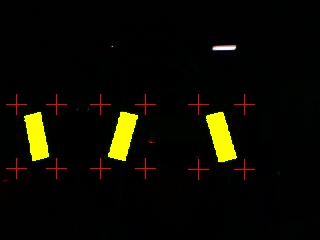
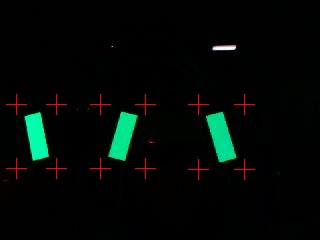
reeEEE inner classes

Changed region(s): [[0.625, 0.4667, 0.75, 0.7], [0.0625, 0.4667, 0.1562, 0.6708], [0.3438, 0.4667, 0.4375, 0.6708]]

diff --git a/src/main/java/org/team5940/pantry/vision/Main.java b/src/main/java/org/team5940/pantry/vision/Main.java
@@ -1,12 +1,15 @@
 package org.team5940.pantry.vision;
 
+import java.util.ArrayList;
 import java.util.Random;
 
 import org.opencv.core.CvType;
 import org.opencv.core.Mat;
 import org.opencv.core.MatOfPoint;
 import org.opencv.core.Point;
+import org.opencv.core.Rect;
 import org.opencv.core.Scalar;
+import org.opencv.core.Size;
 import org.opencv.imgcodecs.Imgcodecs;
 import org.opencv.imgproc.Imgproc;
 
@@ -33,39 +36,50 @@ public class Main {
         img.convertTo(image32S, CvType.CV_32SC1);
         var yes = img;
 
-        for (int i = 0; i < contours.size(); i++) {
-            Imgproc.drawContours(yes, contours, i, new Scalar(0, 255, 255), -1);
-        }
+        // for (int i = 0; i < contours.size(); i++) {
+        //     Imgproc.drawContours(yes, contours, i, new Scalar(0, 255, 255), -1);
+        // }
 
         // print(yes.rows());
 
+        ArrayList<DetectedContour> contourList = new ArrayList<>();
+
         // Random  = new Random();
-        for (MatOfPoint point : contours) {
+        for (MatOfPoint contour : contours) {
             print("finding bouding rectangle...");
 
             var buffer = new BetterPoint(0.03 * (double) yes.rows(), 0.03 * (double) yes.rows());
 
             print(buffer);
 
-            var boundingRect = Imgproc.boundingRect(point);
-            var tl_ = boundingRect.tl();
-            var br = new BetterPoint(boundingRect.br()).plus(buffer);
-            var tl = new BetterPoint(tl_);
-            var tr = new BetterPoint(boundingRect.tl().x + boundingRect.width, boundingRect.tl().y).plus(
-                new Point(
-                    buffer.x, -buffer.y
-                )
-            );
-            var bl = new BetterPoint(boundingRect.tl().x, boundingRect.tl().y + boundingRect.height).plus(
-                new Point(
-                    -buffer.x, buffer.y
-                ));
-            tl = tl.minus(buffer);
+            var boundingRect = Imgproc.boundingRect(contour);
 
-            Imgproc.drawMarker(yes, tl, new Scalar(0, 0, 255));
-            Imgproc.drawMarker(yes, tr, new Scalar(0, 0, 255));
-            Imgproc.drawMarker(yes, bl, new Scalar(0, 0, 255));
-            Imgproc.drawMarker(yes, br, new Scalar(0, 0, 255));
+            Rect rectCrop = new  Rect(new BetterPoint(boundingRect.tl()).minus(buffer), new Size(boundingRect.width + buffer.x*2, boundingRect.height + buffer.y*2)); 
+            Mat croppedImg = image32S.submat(rectCrop);
+
+            Imgcodecs.imwrite("images/output/markedUPMemed.jpg", croppedImg);
+
+            DetectedContour newContour = new DetectedContour(croppedImg, boundingRect.tl(), contour);
+            contourList.add(newContour);
+
+            // var tl_ = boundingRect.tl();
+            // var br = new BetterPoint(boundingRect.br()).plus(buffer);
+            // var tl = new BetterPoint(tl_);
+            // var tr = new BetterPoint(boundingRect.tl().x + boundingRect.width, boundingRect.tl().y).plus(
+            //     new Point(
+            //         buffer.x, -buffer.y
+            //     )
+            // );
+            // var bl = new BetterPoint(boundingRect.tl().x, boundingRect.tl().y + boundingRect.height).plus(
+            //     new Point(
+            //         -buffer.x, buffer.y
+            //     ));
+            // tl = tl.minus(buffer);
+
+            // Imgproc.drawMarker(yes, tl, new Scalar(0, 0, 255));
+            // Imgproc.drawMarker(yes, tr, new Scalar(0, 0, 255));
+            // Imgproc.drawMarker(yes, bl, new Scalar(0, 0, 255));
+            // Imgproc.drawMarker(yes, br, new Scalar(0, 0, 255));
 
 
 
@@ -92,7 +106,19 @@ public class Main {
 
     }
 
+    public static class DetectedContour {
 
+        Mat image;
+        Point imageCornerLoc;
+        MatOfPoint contour;
+
+        public DetectedContour(Mat image, Point imageCornerLoc, MatOfPoint contour) {
+            this.image = image;
+            this.imageCornerLoc = imageCornerLoc;
+            this.contour = contour;
+        }
+
+    }
 
 
     static void print(Object o) {
